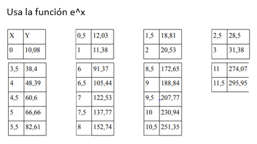
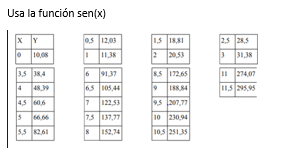
cuadratica con funcion arreglada

diff --git a/metodos/cuadratica_con_funcion.py b/metodos/cuadratica_con_funcion.py
@@ -9,7 +9,8 @@ class Cuadratica_con_funcion:
         if selectProblem == 1:
             self.x = np.array([1.1, 1.9, 2.4, 4.8, 5.1, 10.5])
             self.y = np.array([2.5, 2.7, 3.7, 5.2, 6.0, 8.3])
-            self.problemImage = "Cuadratica_1.png"
+            self.fx = np.sin(np.deg2rad(x))
+            self.problemImage = "Cuadratica_con_funcion_1.png"
         elif selectProblem == 2:
             self.x = np.array([0, 0.5, 1, 1.5, 2, 2.5, 3, 3.5, 4, 4.5, 5,
                               5.5, 6, 6.5, 7, 7.5, 8, 8.5, 9, 9.5, 10, 10.5, 11, 11.5])
@@ -17,6 +18,7 @@ class Cuadratica_con_funcion:
                                60.6, 66.66, 82.61, 91.37,
                                105.44, 122.53, 137.77, 152.74, 172.65, 188.84, 207.77,
                                230.94, 251.35, 274.07, 295.95])
+            self.fx = np.sin(np.deg2rad(x))
             self.problemImage = "Cuadratica_con_funcion_2.png"
         self.selectProblem = selectProblem
 
@@ -31,19 +33,43 @@ class Cuadratica_con_funcion:
     def solve(self):
         x = self.x
         y = self.y
-        a, b, c = np.poly1d(np.polyfit(x,
-                                       y, 2))
-        c = c * np.exp(c)
-        # result(set x value)
-        return a, b, c
+        fx = self.fx
+        n = len(x)
+        sum_x = sum(x)
+        sum_squared_x = sum(i*i for i in x)
+        sum_cubic_x = sum(i*i*i for i in x)
+        sum_quadratic_x = sum(i*i*i*i for i in x)
+        sum_fx_and_x = sum(a*b for a,b in zip(x,fx))
+        sum_fx_and_squared_x = sum((a*a)*b for a,b in zip(x,fx))
+
+        sum_y = sum(y)
+        sum_squared_y = sum(i*i for i in x)
+        sum_fx_and_y = sum(a*b for a,b in zip(y,fx))
+
+        sum_xy = sum(a * b for a,b in zip(x,y))
+        sum_squared_x_and_y = sum((a*a)*b for a,b in zip(x,y))
+
+        sum_fx = sum(fx)
+        sum_squared_fx = sum(i*i for i in fx)
+
+        a = np.array([[n,sum_x,sum_squared_x,sum_fx],
+              [sum_x,sum_squared_x, sum_cubic_x, sum_fx_and_x    ],
+              [sum_squared_x, sum_cubic_x,sum_quadratic_x, sum_fx_and_squared_x  ],
+              [sum_fx,sum_fx_and_x,sum_fx_and_squared_x, sum_squared_fx]])
+
+
+        b = np.array([sum_y,sum_xy, sum_squared_x_and_y,sum_fx_and_y])
+
+        first, second,third, fourth = np.linalg.solve(a,b)
+        return first, second,third, fourth
 
     def generatePossibleSolutions(self, standard_deviation=0.5):
-        a, b, c = self.solve()
+        a, b, c, d = self.solve()
 
         fake_solutions = 3
 
         rng = np.random.default_rng()
-        s = rng.normal(a, standard_deviation, size=(fake_solutions, 3))
-        s = np.append(s, [[a, b, c]], axis=0)
+        s = rng.normal(a, standard_deviation, size=(fake_solutions, 4))
+        s = np.append(s, [[a, b, c, d]], axis=0)
         rng.shuffle(s)
         return s
